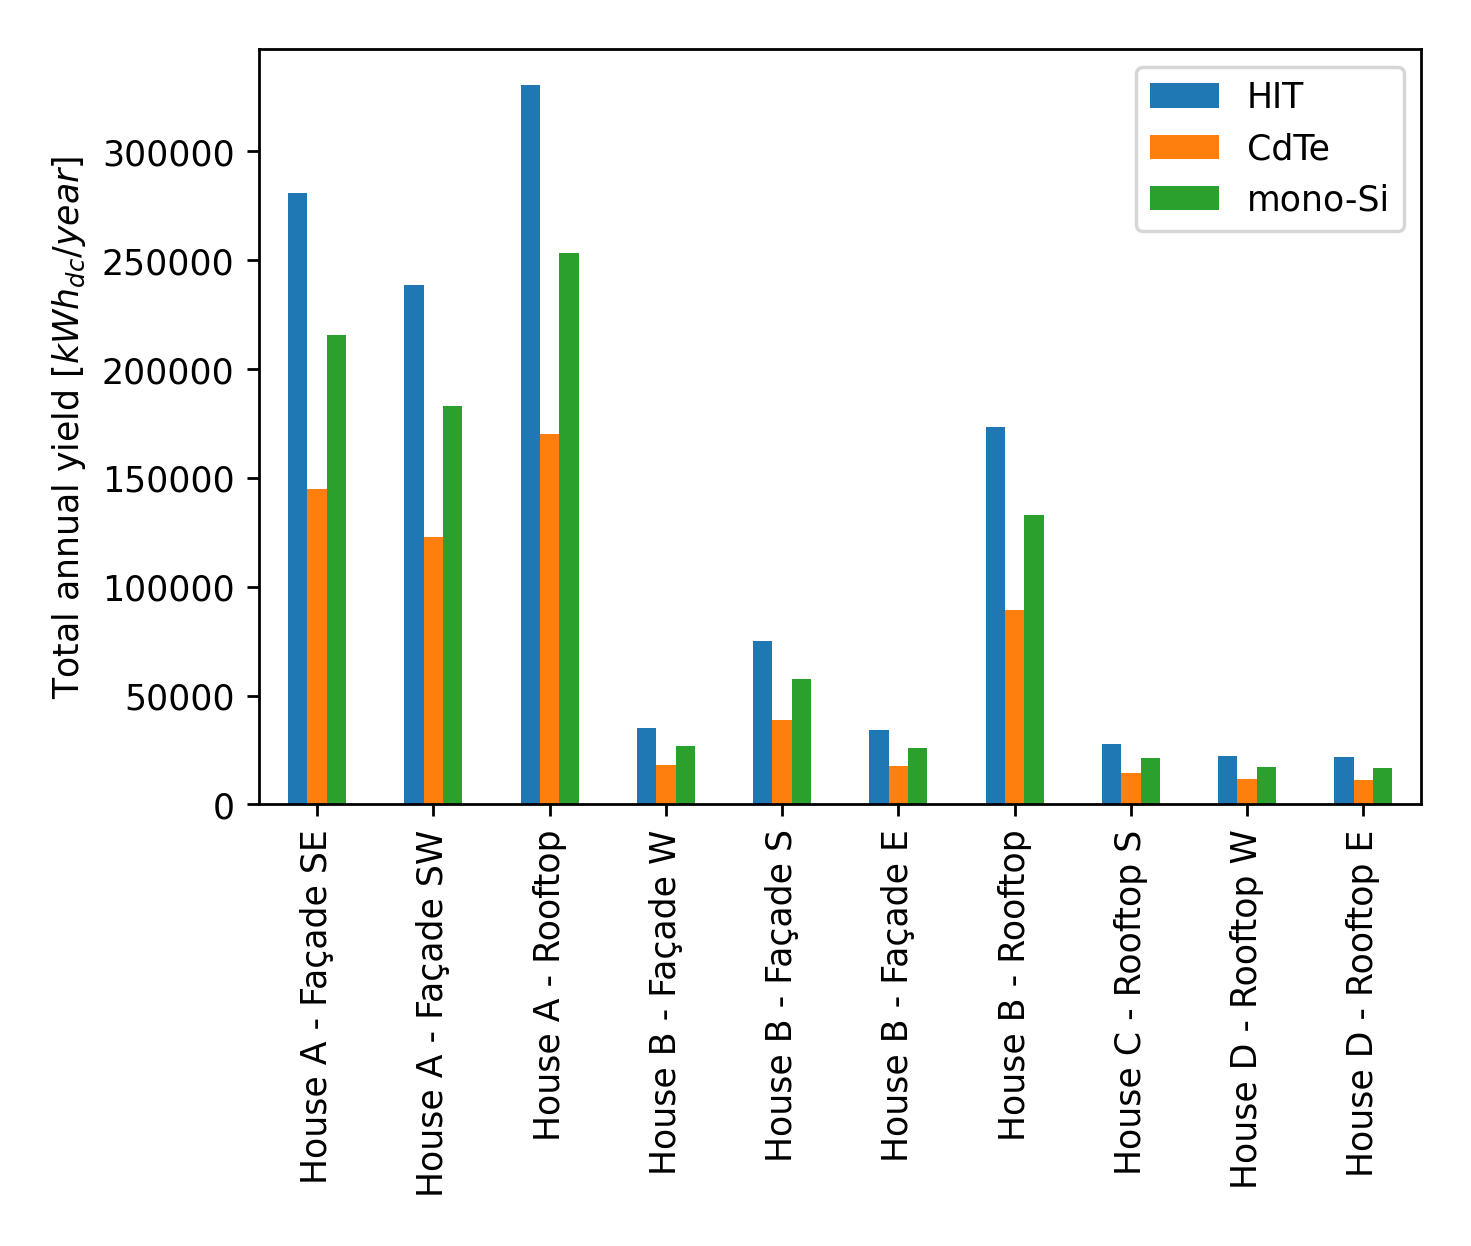
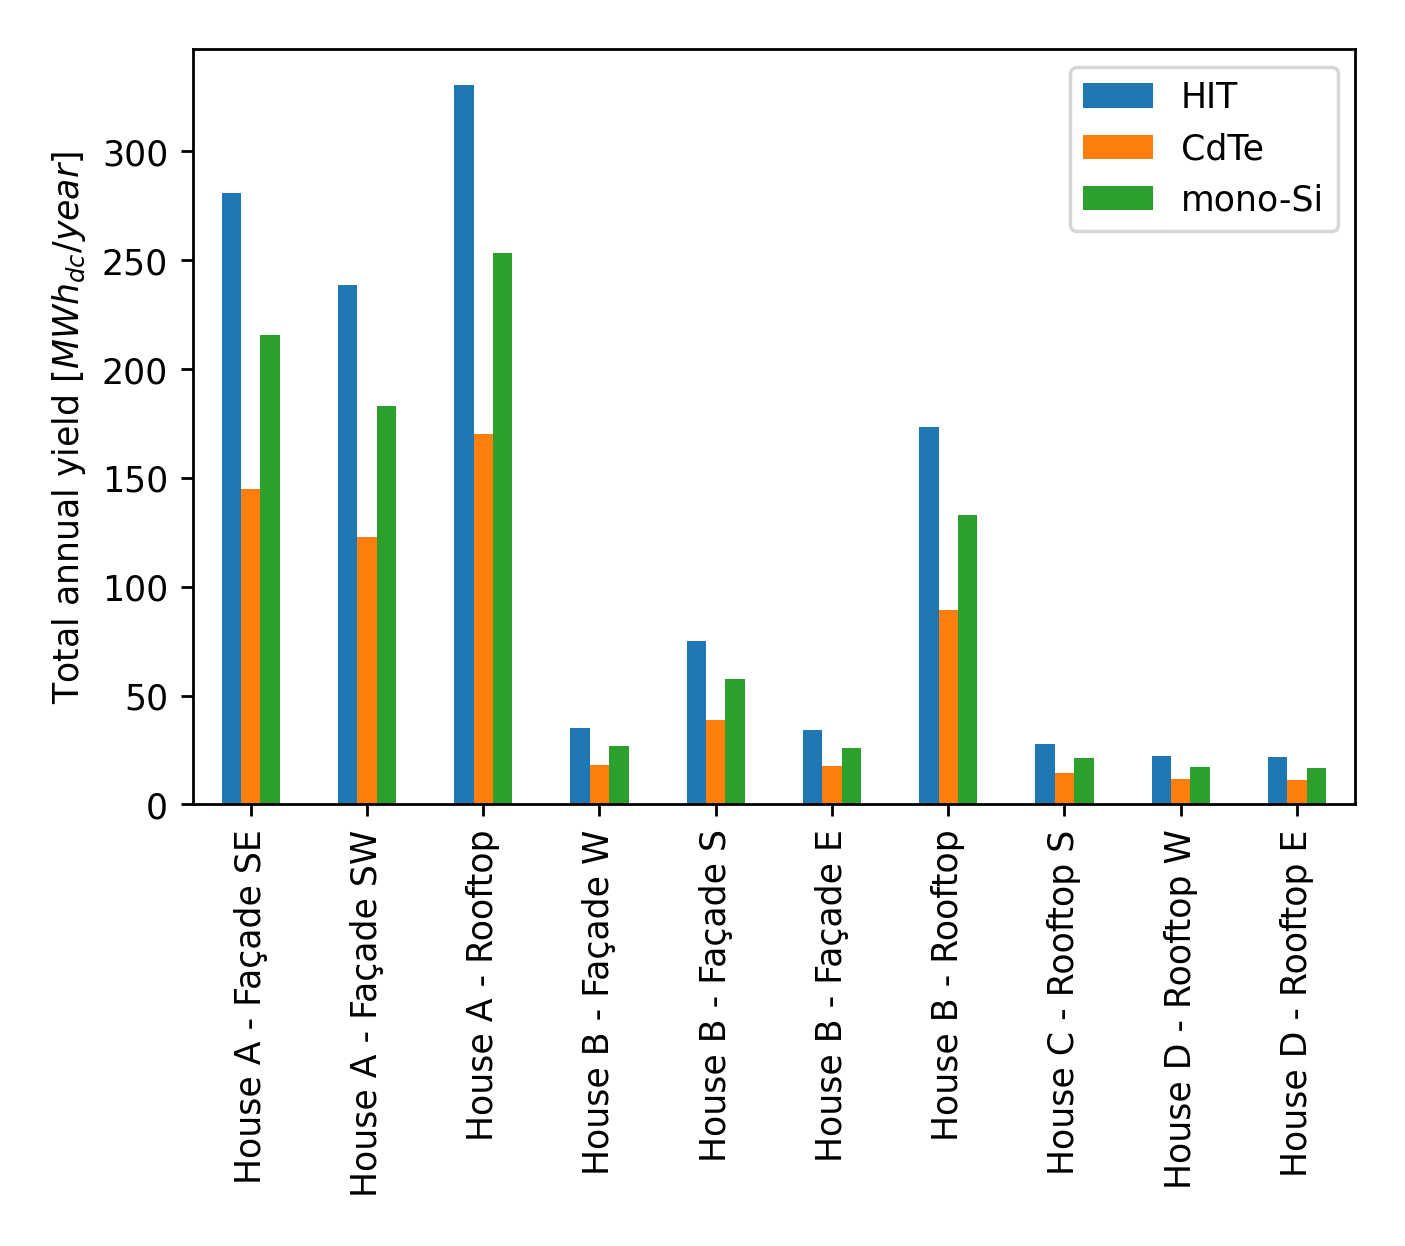
Change some y-axes to a more appropriate scale

diff --git a/src/question3.py b/src/question3.py
@@ -109,7 +109,7 @@ def find_best_module(facade):
     return best_module
 
 
-def create_bar_chart_for_all_modules(column, *, filename, ylabel):
+def create_bar_chart_for_all_modules(column, *, scale=1, filename, ylabel):
     """
     Create a bar chart with all facades and modules.
 
@@ -123,13 +123,13 @@ def create_bar_chart_for_all_modules(column, *, filename, ylabel):
     for building_name, building in buildings.items():
         for facade_name, facade in building.items():
             facades_dataframe.loc[f'{building_name} - {facade_name}'] = list(
-                map(lambda module_name: facade[module_name][column], modules))
+                map(lambda module_name: facade[module_name][column] * scale, modules))
 
     facades_dataframe.plot(kind='bar', ylabel=ylabel)
     utils.plots.savefig(f'../output/question3/{filename}.png')
 
 
-def create_bar_chart_for_best_module(column, *, filename, ylabel):
+def create_bar_chart_for_best_module(column, *, scale=1, filename, ylabel):
     """
     Create a bar chart for the best module for each facade.
 
@@ -142,7 +142,7 @@ def create_bar_chart_for_best_module(column, *, filename, ylabel):
     for building_name, building in buildings.items():
         for facade_name, facade in building.items():
             best_module = find_best_module(facade)
-            facades_dataframe.loc[f'{building_name} - {facade_name}'] = facade[best_module][column]
+            facades_dataframe.loc[f'{building_name} - {facade_name}'] = facade[best_module][column] * scale
 
     facades_dataframe.plot(kind='bar', ylabel=ylabel)
     utils.plots.savefig(f'../output/question3/{filename}.png')
@@ -253,16 +253,16 @@ buildings = calculate_power_output(buildings)
 
 # Create bar charts for the total and specific annual yield
 create_bar_chart_for_all_modules(
-    'total_annual_yield_dc', filename='total_annual_yield_dc', ylabel='Total annual yield [$kWh_{dc} / year$]')
+    'total_annual_yield_dc', scale=0.001, filename='total_annual_yield_dc', ylabel='Total annual yield [$MWh_{dc} / year$]')
 create_bar_chart_for_all_modules(
-    'total_annual_yield_ac', filename='total_annual_yield_ac', ylabel='Total annual yield [$kWh_{ac} / year$]')
+    'total_annual_yield_ac', scale=0.001, filename='total_annual_yield_ac', ylabel='Total annual yield [$MWh_{ac} / year$]')
 create_table_pv_systems()
 
 # Question 4
 create_bar_chart_for_best_module(
-    'total_annual_yield_ac', filename='total_annual_yield_ac_best', ylabel='Total annual yield [$kWh_{ac} / year$]')
+    'total_annual_yield_ac', scale=0.0001, filename='total_annual_yield_ac_best', ylabel='Total annual yield [$MWh_{ac} / year$]')
 create_bar_chart_for_all_modules('specific_annual_yield_dc', filename='specific_annual_yield_dc',
-                                 ylabel='Specific annual yield [$kWh_{dc} / m^2 year$]')
+                                 ylabel='Specific annual yield [$MWh_{dc} / m^2 year$]')
 create_bar_chart_for_all_modules(
     'annual_inverter_efficiency', filename='annual_inverter_efficiency', ylabel='Annual inverter efficiency')
 create_bar_chart_per_building()
